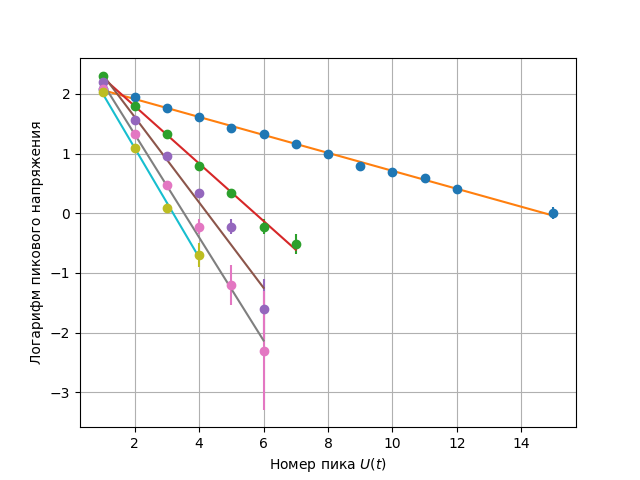
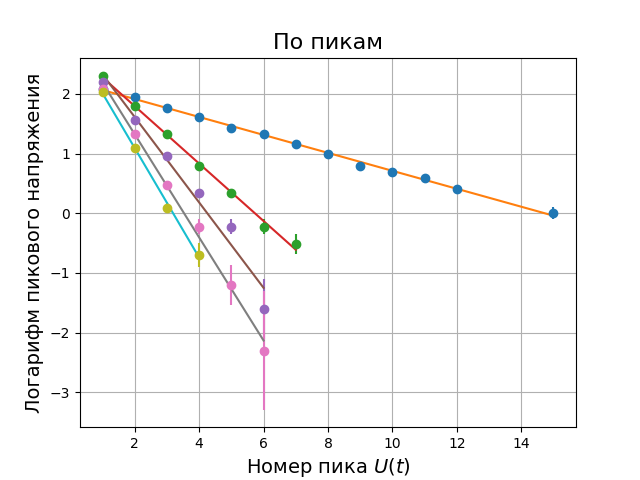
I fucked up and don't know where exactly

Changed region(s): [[0.0312, 0.1562, 0.0625, 0.875], [0.375, 0.9375, 0.6562, 1.0], [0.4062, 0.0625, 0.5938, 0.125]]

diff --git a/qfactor_peaks.py b/qfactor_peaks.py
@@ -19,7 +19,8 @@ def uscatter(x, y, add_line=False):
         print(f'Plotting line with slope = {slope}, intercept = {intercept}')
         plt.plot(x_nom, slope * x_nom + intercept)
 
-ress = (23, 34, 44, 55, 65)
+
+ress = np.array((23, 34, 44, 55, 65))
 paths = (f'voltages_{r}ohm.csv' for r in ress)
 
 for path in paths:
@@ -27,10 +28,51 @@ for path in paths:
     numbers = np.array(numbers)
     voltages = unp.uarray(voltages, 0.1)
     uscatter(numbers, unp.log(voltages), add_line=True)
+print()
 
 plt.grid()
+plt.title('По пикам', fontsize=16)
 plt.xlabel('Номер пика $U(t)$', fontsize=14)
 plt.ylabel('Логарифм пикового напряжения', fontsize=14)
 plt.savefig('qfactor_peaks.png')
+plt.close()
 
-slopes = (0.150, 0.481, 0.715, 0.898, 0.916)
+slopes = np.array((0.15, 0.48, 0.72, 0.86, 0.92,))
+
+# Moving to the spiral method
+voltages_tuple = (
+    (9, 6.6, 4.8, 3.4, 2.4, 1.6,),
+    (10.4, 7, 4.5, 2.8, 1.8,),
+    (8.2, 4.7, 2.6, 1.4,),
+    (7.6, 3.7, 1.7, 0.8,),
+)
+
+for voltages in voltages_tuple:
+    voltages = unp.uarray(voltages, 0.1)
+    numbers = np.array(range(1, len(voltages) + 1))
+    uscatter(numbers, unp.log(voltages), add_line=True)
+
+plt.grid()
+plt.title('По спирали', fontsize=16)
+plt.xlabel('Номер пика $U(t)$', fontsize=14)
+plt.ylabel('Логарифм пикового напряжения', fontsize=14)
+plt.savefig('qfactor_peaks_spiral.png')
+plt.close()
+
+slopes_spiral = np.array((0.343, 0.442, 0.589, 0.753,))
+
+# Compare the decrement coefs from different methods.
+# They should be proportional to R.
+plt.scatter(ress, slopes, label='По пикам')
+plt.scatter(ress[:-1], slopes_spiral, label='По спирали')
+slope, intercept = np.polyfit(ress[:-1], slopes_spiral, 1)
+plt.plot(ress, slope * ress + intercept, color='r')
+plt.plot(ress, 1/440 * ress + intercept, color='r')
+plt.grid()
+plt.legend()
+plt.xlabel('Сопротивление реостата', fontsize=14)
+plt.ylabel('Декремент затухания', fontsize=14)
+plt.savefig('qfactor_prop_r.png')
+plt.close()
+
+print(f'Slope is {slope}, while it must be 1 / R_cr = 1 / 440 = {1 / 440}')

diff --git a/report.tex b/report.tex
@@ -73,7 +73,7 @@
 На частоте 10 кГц: 6.139~мГн, 8.3 Ом.
 На характеристической частоте: 5.97~мГн, 6.7~мГн.
 
-Критическое сопротивление для данного контура: $R_{\text{cr}} = 440 \pm 10$~Ом при полносм сопротивлении реостата 466 Ом.
+Критическое сопротивление для данного контура: $R_{\text{cr}} = 440 \pm 10$~Ом при полном сопротивлении реостата 466 Ом.
 Погрешность оценил по чувствительности пика на картинке осциллографа к изменениям --- при меньших изменениях не видел разницы.
 
 \section{Выводы}
